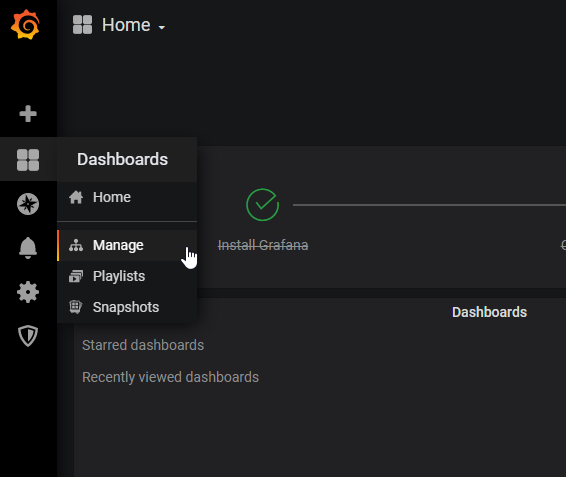
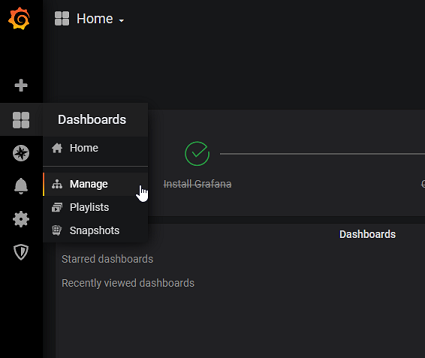
updated images and added to readme content

diff --git a/README.md b/README.md
@@ -42,9 +42,35 @@ The framework uses a Kubernetes based deployment of Apache Jmeter, InfluxDB and 
 
 The public IP address of the loadbalancer can then be used to access the Grafana login window
 
+![grafana login](./images/grafana.png)
+
 
 ### Set up Jmeter Dashboard
 Once the Grafana dashboad has been accessed an initial dashboard should be loaded ( note: a default datasource has already been created )
 
+![grafana dashboard](./images/grafana2.png)
 
-### Running your first Jmeter test
+Select Dashboards ....Manage as below:
+
+![grafana dashboard](./images/grafana3.png)
+
+This will open the Dashboard Management Window.....Select "Import"
+
+![grafana import](./images/grafana4.png)
+
+On the Import window enter 4026 as the Id for the dashboard as below
+
+![grafana uid](./images/grafana5.png)
+
+This will import the dashboard from Grafana labs and display the settings dialog as below - update the database name as shown and select Import to load the dashboard
+
+![grafana datasource](./images/grafana6.png)
+
+The Grafana Jmeter dashboard will be loaded with the default settings ready for your first Jmeter Test
+
+![grafana Jmeter dashboard](./images/grafana7.png)
+
+
+
+
+## Running your first Jmeter test
